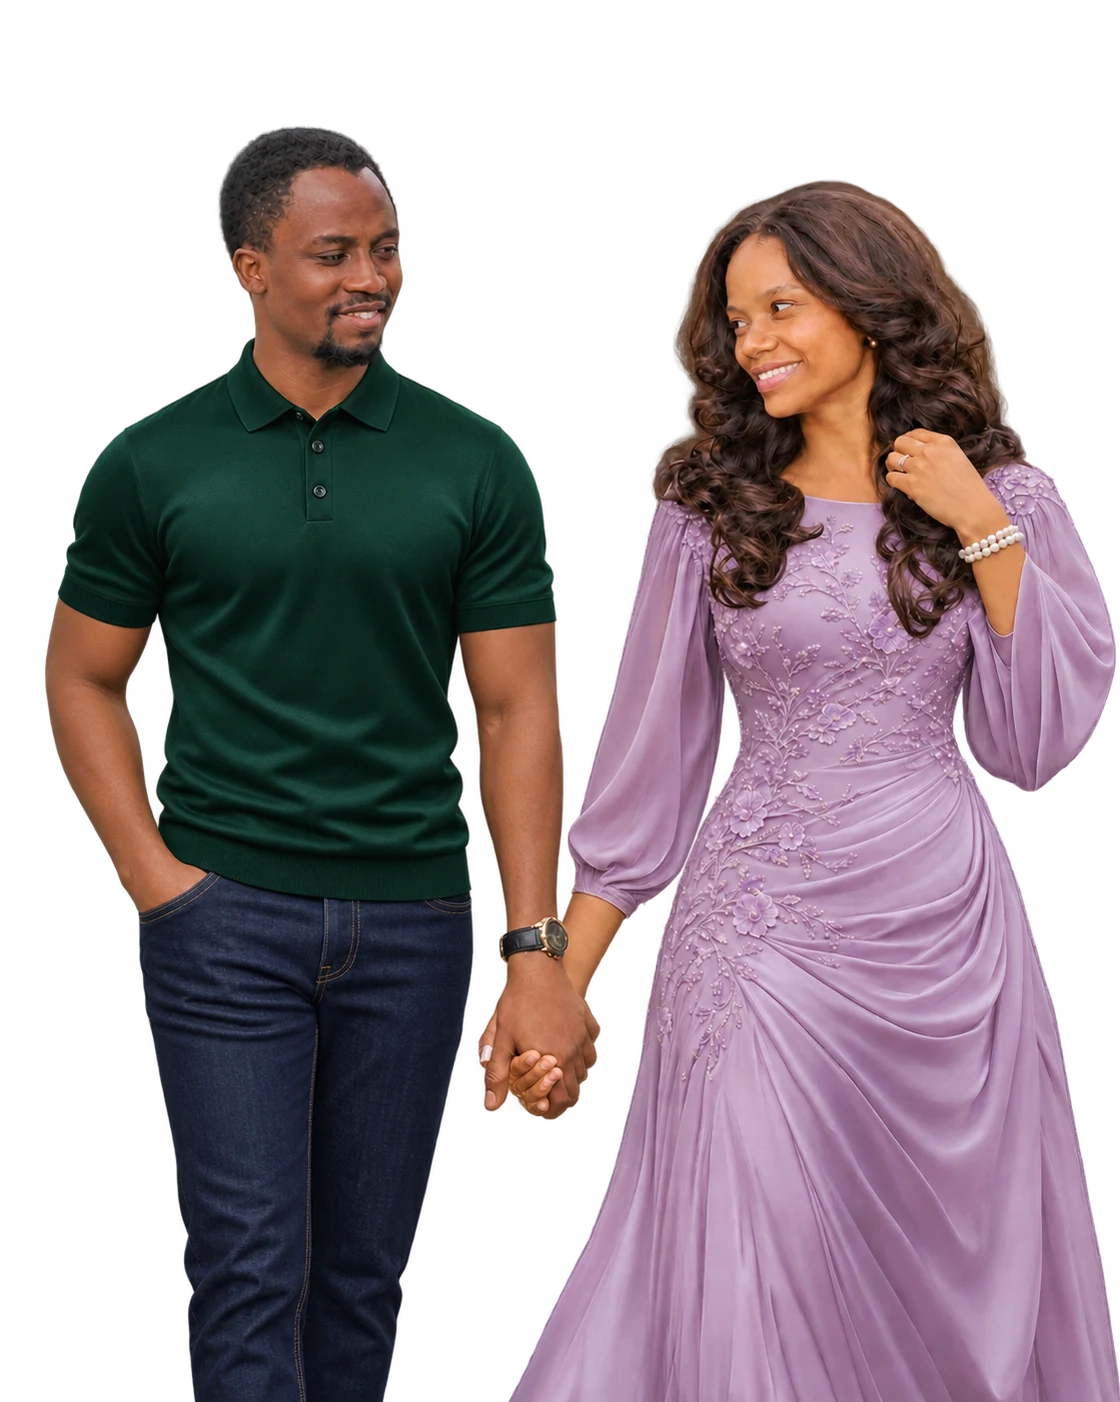
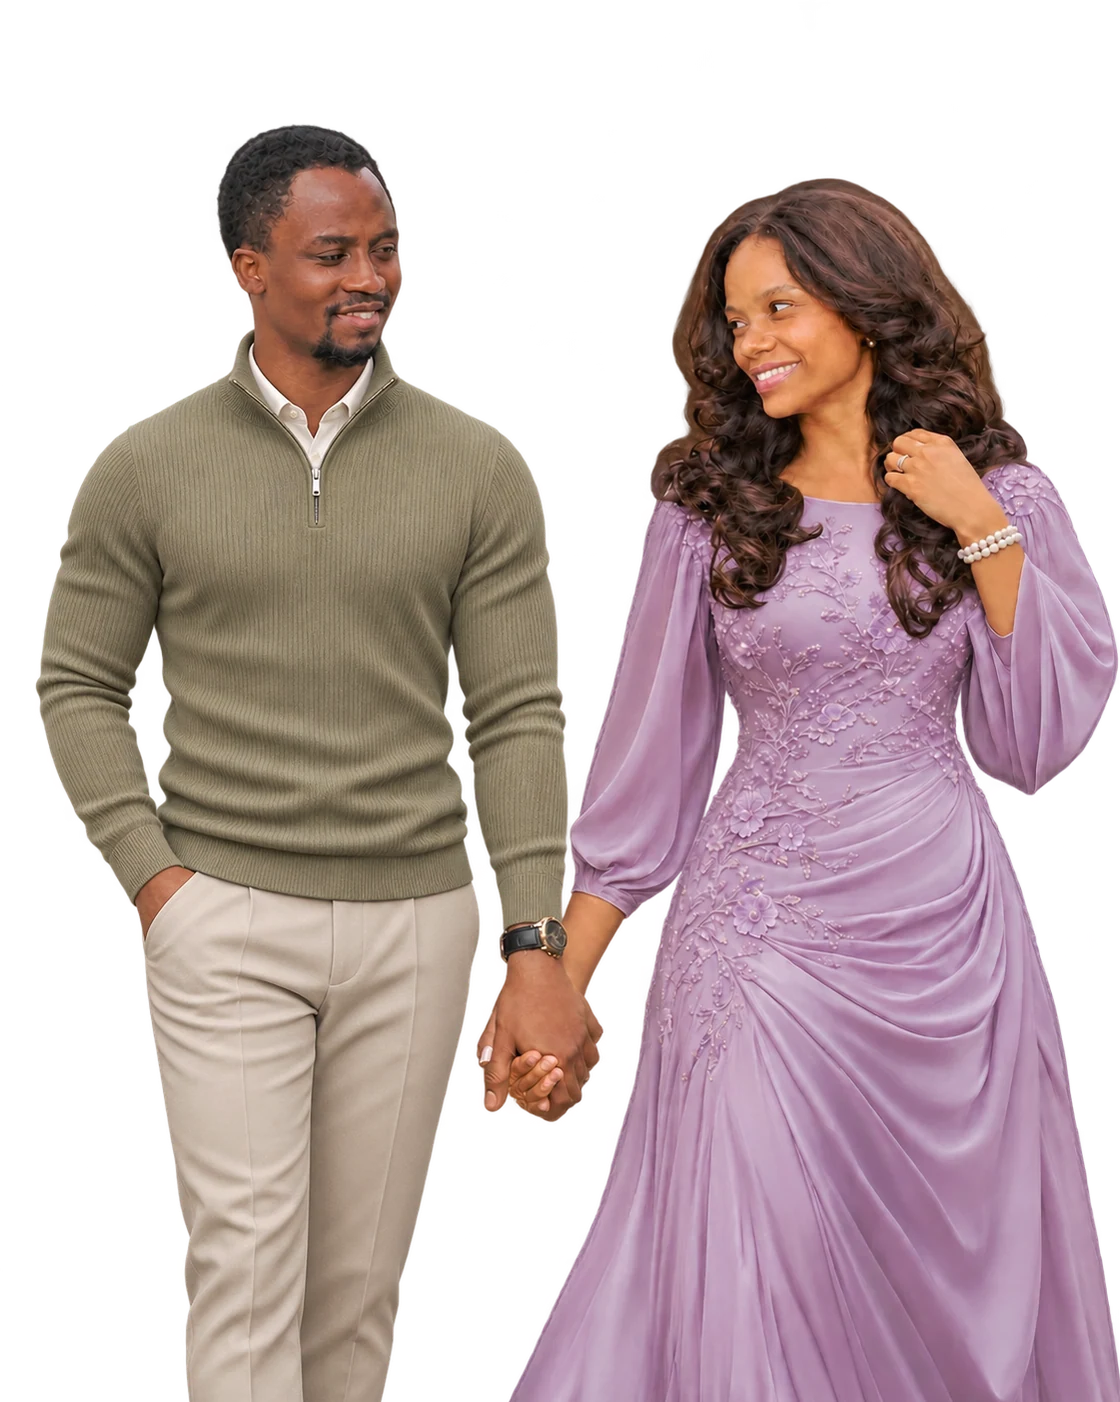
Refresh the hero wardrobe and vary section portraits

diff --git a/public/index.html b/public/index.html
@@ -12,17 +12,17 @@
   <meta property="og:title" content="Ginikachi &amp; Godwin | Wedding Invitation">
   <meta property="og:description" content="12 December 2026, 10:00 a.m. WAT. The Golden Heart Place, Cross River State, Nigeria.">
   <meta property="og:url" content="https://ginikachi-and-godwin.vercel.app/">
-  <meta property="og:image" content="https://ginikachi-and-godwin.vercel.app/assets/wedding-share-card.jpg">
-  <meta property="og:image:secure_url" content="https://ginikachi-and-godwin.vercel.app/assets/wedding-share-card.jpg">
+  <meta property="og:image" content="https://ginikachi-and-godwin.vercel.app/assets/wedding-share-card.jpg?v=knit">
+  <meta property="og:image:secure_url" content="https://ginikachi-and-godwin.vercel.app/assets/wedding-share-card.jpg?v=knit">
   <meta property="og:image:type" content="image/jpeg">
   <meta property="og:image:width" content="1200">
   <meta property="og:image:height" content="630">
-  <meta property="og:image:alt" content="Ginikachi and Godwin in an emerald polo and lilac gown, with their wedding date: 12 December 2026.">
+  <meta property="og:image:alt" content="Ginikachi and Godwin in an olive quarter-zip and lilac gown, with their wedding date: 12 December 2026.">
   <meta name="twitter:card" content="summary_large_image">
   <meta name="twitter:title" content="Ginikachi &amp; Godwin | Wedding Invitation">
   <meta name="twitter:description" content="12 December 2026, 10:00 a.m. WAT. The Golden Heart Place, Cross River State, Nigeria.">
-  <meta name="twitter:image" content="https://ginikachi-and-godwin.vercel.app/assets/wedding-share-card.jpg">
-  <meta name="twitter:image:alt" content="Ginikachi and Godwin in an emerald polo and lilac gown, with their wedding date: 12 December 2026.">
+  <meta name="twitter:image" content="https://ginikachi-and-godwin.vercel.app/assets/wedding-share-card.jpg?v=knit">
+  <meta name="twitter:image:alt" content="Ginikachi and Godwin in an olive quarter-zip and lilac gown, with their wedding date: 12 December 2026.">
   <link rel="icon" type="image/svg+xml" href="assets/monogram.svg">
   <link rel="stylesheet" href="styles.css">
   <script src="invite.js" defer></script>
@@ -32,7 +32,6 @@
     <section class="cover" id="cover" aria-label="Closed wedding invitation" hidden>
       <div class="gate-frame">
         <div class="gate-lining" aria-hidden="true">
-          <img src="assets/photos/signature-portrait-medium.webp" width="560" height="701" alt="" decoding="async">
           <span class="monogram">G<i>&amp;</i>G</span>
         </div>
         <div class="gate-panel gate-panel-left" aria-hidden="true">
@@ -89,7 +88,7 @@
 
       <section class="countdown scene" id="details" aria-labelledby="countdown-title">
         <div class="drift" aria-hidden="true"><span></span><span></span><span></span><span></span><span></span><span></span></div>
-        <img class="section-portrait countdown-portrait" src="assets/photos/signature-portrait-medium.webp" width="560" height="701" alt="" loading="lazy" decoding="async">
+        <img class="section-portrait countdown-portrait" src="assets/photos/at-sunset-medium.webp" width="560" height="700" alt="" loading="lazy" decoding="async">
         <img class="countdown-ring" src="assets/wedding-bands.webp" width="900" height="675" alt="" loading="lazy" decoding="async">
         <div class="countdown-copy" data-reveal>
           <p class="caps">12 December 2026</p>
@@ -105,7 +104,7 @@
       </section>
 
       <section class="families scene" aria-labelledby="families-title">
-        <img class="section-portrait family-portrait" src="assets/photos/signature-portrait-medium.webp" width="560" height="701" alt="" loading="lazy" decoding="async">
+        <img class="section-portrait family-portrait" src="assets/photos/among-the-flowers-medium.webp" width="560" height="700" alt="" loading="lazy" decoding="async">
         <header class="section-heading" data-reveal>
           <h2 id="families-title">Together with<br><i>our families</i></h2>
           <p>We invite you to celebrate the marriage of<br><strong>Ginikachi Matilda Ibe</strong> &amp; <strong>Godwin Moses Onen</strong>.</p>
@@ -123,7 +122,6 @@
       </section>
 
       <section class="celebrations scene" id="events" aria-labelledby="events-title">
-        <img class="section-portrait events-portrait" src="assets/photos/signature-portrait-medium.webp" width="560" height="701" alt="" loading="lazy" decoding="async">
         <header class="section-heading" data-reveal>
           <h2 id="events-title">Join us to <i>celebrate</i></h2>
         </header>
@@ -155,7 +153,7 @@
       </section>
 
       <section class="attire scene" aria-labelledby="attire-title">
-        <img class="section-portrait attire-portrait" src="assets/photos/signature-portrait-medium.webp" width="560" height="701" alt="" loading="lazy" decoding="async">
+        <img class="section-portrait attire-portrait" src="assets/photos/on-the-steps-medium.webp" width="560" height="700" alt="" loading="lazy" decoding="async">
         <div class="section-heading" data-reveal>
           <h2 id="attire-title">Colours of <i>the day</i></h2>
         </div>
@@ -170,7 +168,6 @@
       </section>
 
       <section class="photo-gallery scene" id="gallery" aria-labelledby="gallery-title">
-        <img class="section-portrait gallery-portrait" src="assets/photos/signature-portrait-medium.webp" width="560" height="701" alt="" loading="lazy" decoding="async">
         <header class="section-heading" data-reveal>
           <h2 id="gallery-title">In <i>pictures</i></h2>
         </header>
@@ -214,8 +211,7 @@
         </dialog>
       </section>
 
-      <section class="toast scene toast-with-portrait" aria-labelledby="toast-title">
-        <img class="section-portrait toast-portrait" src="assets/photos/signature-portrait.webp" width="1120" height="1402" alt="" loading="lazy" decoding="async">
+      <section class="toast scene" aria-labelledby="toast-title">
         <div class="section-heading" data-reveal>
           <h2 class="caps" id="toast-title">A toast</h2>
           <figure>
@@ -228,7 +224,6 @@
       </section>
 
       <section class="location scene" id="location" aria-labelledby="location-title">
-        <img class="section-portrait location-portrait" src="assets/photos/signature-portrait-medium.webp" width="560" height="701" alt="" loading="lazy" decoding="async">
         <div class="location-card" data-reveal>
           <div class="location-copy">
             <p class="caps">Holy matrimony</p>
@@ -250,7 +245,6 @@
       </section>
 
       <footer class="invite-footer">
-        <img class="section-portrait footer-portrait" src="assets/photos/signature-portrait-medium.webp" width="560" height="701" alt="" loading="lazy" decoding="async">
         <p class="signoff">With love, Ginikachi <i>&amp;</i> Godwin</p>
         <button class="text-link" id="replay" type="button">Replay the opening</button>
       </footer>

diff --git a/public/styles.css b/public/styles.css
@@ -76,7 +76,9 @@ html:has(.cover:not([hidden])) { overflow: hidden; }
   inset: 0;
   display: grid;
   place-items: center;
-  background: var(--grain), radial-gradient(ellipse at center, #fff9ee 10%, #e0cbdc);
+  background:
+    var(--corner) top left / min(35vw, 19rem) auto no-repeat,
+    var(--grain), radial-gradient(ellipse at center, #fff9ee 10%, #e0cbdc);
   border: 1px solid #ead6d2;
 }
 .gate-lining::after {
@@ -702,24 +704,6 @@ details[open] > :not(summary) { animation: rise 280ms ease both; }
   [data-reveal] { opacity: 1; transform: none; filter: none; }
 }
 
-.gate-lining { overflow: hidden; }
-.gate-lining img {
-  position: absolute;
-  inset: 0;
-  width: 100%;
-  height: 100%;
-  object-fit: cover;
-  object-position: center 28%;
-}
-.gate-lining .monogram {
-  position: absolute;
-  z-index: 1;
-  bottom: 1.5rem;
-  color: #fff7ee;
-  font-size: 2.8rem;
-  text-shadow: 0 2px 9px #1b1522;
-}
-
 .hero-portrait {
   position: absolute;
   z-index: -1;
@@ -853,28 +837,6 @@ html:has(.photo-viewer[open]) { overflow: hidden; }
 }
 .photo-viewer figcaption { margin-top: 0.5rem; font: italic 500 1.6rem/1 var(--serif); }
 
-.toast-with-portrait {
-  min-height: min(70svh, 42rem);
-  align-content: center;
-  justify-items: start;
-  background: radial-gradient(ellipse at left, #564057, #34213b);
-  color: #fff4f0;
-  text-align: left;
-}
-.toast-with-portrait::before { display: block; opacity: 0.22; }
-.toast-with-portrait::after { display: none; }
-.toast-with-portrait .section-heading { position: relative; width: min(60%, 34rem); }
-.toast-with-portrait figcaption { color: #e6cbe1; }
-.toast-portrait {
-  position: absolute;
-  inset: 0 0 0 auto;
-  width: 54%;
-  height: 100%;
-  object-fit: cover;
-  object-position: center 12%;
-  mask-image: linear-gradient(90deg, transparent, #000 34%);
-}
-
 @media (max-width: 760px) {
   .welcome:has(.hero-portrait) {
     display: flex;
@@ -898,14 +860,7 @@ html:has(.photo-viewer[open]) { overflow: hidden; }
   .invite-nav nav { gap: clamp(0.52rem, 2.5vw, 1rem); }
   .nav-map { padding-inline: 0.62rem; }
   .album-track { grid-auto-columns: min(73vw, 16rem); }
-  .toast-with-portrait { padding-top: min(80vw, 20rem); }
-  .toast-with-portrait .section-heading { width: 100%; text-align: center; }
-  .toast-portrait {
-    width: 100%;
-    height: min(83vw, 21rem);
-    object-position: center 9%;
-    mask-image: linear-gradient(#000 59%, transparent);
-  }
+
 }
 
 .welcome-threads { position: absolute; z-index: -1; inset: 0; overflow: hidden; pointer-events: none; }
@@ -1006,88 +961,28 @@ html:has(.photo-viewer[open]) { overflow: hidden; }
   .location-map iframe { min-height: 17rem; }
 }
 
-.gate-lining img { object-fit: contain; object-position: center bottom; }
-.section-portrait {
-  position: absolute;
-  z-index: -1;
-  pointer-events: none;
-  height: auto;
-  mask-image: linear-gradient(#000 0%, #000 65%, transparent 100%);
-}
-.countdown-portrait {
-  inset: 7% auto auto -4%;
-  width: min(39vw, 35rem);
-  opacity: 0.22;
-}
-.family-portrait {
-  top: 2%;
-  right: -2%;
-  width: min(44vw, 36rem);
-  opacity: 0.21;
-}
-.events-portrait {
-  top: 5%;
-  left: -3%;
-  width: min(42vw, 33rem);
-  opacity: 0.17;
-}
 .attire { min-height: clamp(25rem, 46vw, 39rem); align-content: center; }
 .attire .section-heading { width: min(100%, 61rem); max-width: none; text-align: left; }
 .attire .section-heading h2 { max-width: 64%; }
 .attire .swatch-ribbon { margin-top: clamp(1.65rem, 5vw, 3.5rem); }
 .attire-portrait {
-  top: 0;
-  right: 6%;
-  width: min(45vw, 36rem);
-  opacity: 0.79;
-  filter: drop-shadow(0 0.75rem 1.65rem #7053673a);
-}
-.gallery-portrait {
-  top: -3%;
-  right: -4%;
-  width: min(39vw, 31rem);
-  opacity: 0.19;
-}
-.toast-portrait {
-  inset: auto 2% -18% auto;
+  position: absolute;
+  z-index: -1;
+  top: -8%;
+  right: 2%;
+  width: min(49vw, 39rem);
   height: auto;
-  width: min(52%, 34rem);
-  object-fit: contain;
-  mask-image: linear-gradient(#000 0%, #000 76%, transparent 100%);
+  opacity: 0.86;
+  mask-image: radial-gradient(ellipse at 53% 39%, #000 29%, #000c 44%, transparent 72%);
+  pointer-events: none;
 }
-.location-portrait {
-  bottom: -19%;
-  right: -3%;
-  width: min(44vw, 36rem);
-  opacity: 0.19;
-}
-.footer-portrait {
-  width: min(34vw, 25rem);
-  top: 10%;
-  right: -2%;
-  opacity: 0.26;
-}
+
 @media (max-width: 760px) {
-  .countdown-portrait { width: 65vw; left: -12%; opacity: 0.19; }
-  .family-portrait { width: 70vw; right: -13%; opacity: 0.18; }
-  .events-portrait { width: 67vw; left: -17%; }
-  .attire-portrait { width: 59vw; right: -2%; }
-  .gallery-portrait { width: 61vw; right: -14%; }
-  .toast-portrait {
-    top: -2%;
-    right: 50%;
-    bottom: auto;
-    translate: 50% 0;
-    width: min(83vw, 26rem);
-    height: auto;
-    mask-image: linear-gradient(#000 0%, #000 61%, transparent 88%);
-  }
-  .location-portrait { width: 61vw; bottom: 0; right: -11%; }
-  .footer-portrait { width: 52vw; top: 3%; right: -8%; }
+  .attire-portrait { width: 64vw; right: -6%; }
 }
 @media (max-width: 480px) {
   .attire { padding-top: 5.6rem; padding-bottom: 4.2rem; }
   .attire .section-heading h2 { max-width: 57%; font-size: clamp(2.55rem, 10vw, 3.05rem); }
   .attire .section-heading h2 i { display: block; }
-  .attire-portrait { top: 3%; right: -7%; width: 65vw; }
+  .attire-portrait { top: 0; right: -8%; width: 67vw; }
 }
